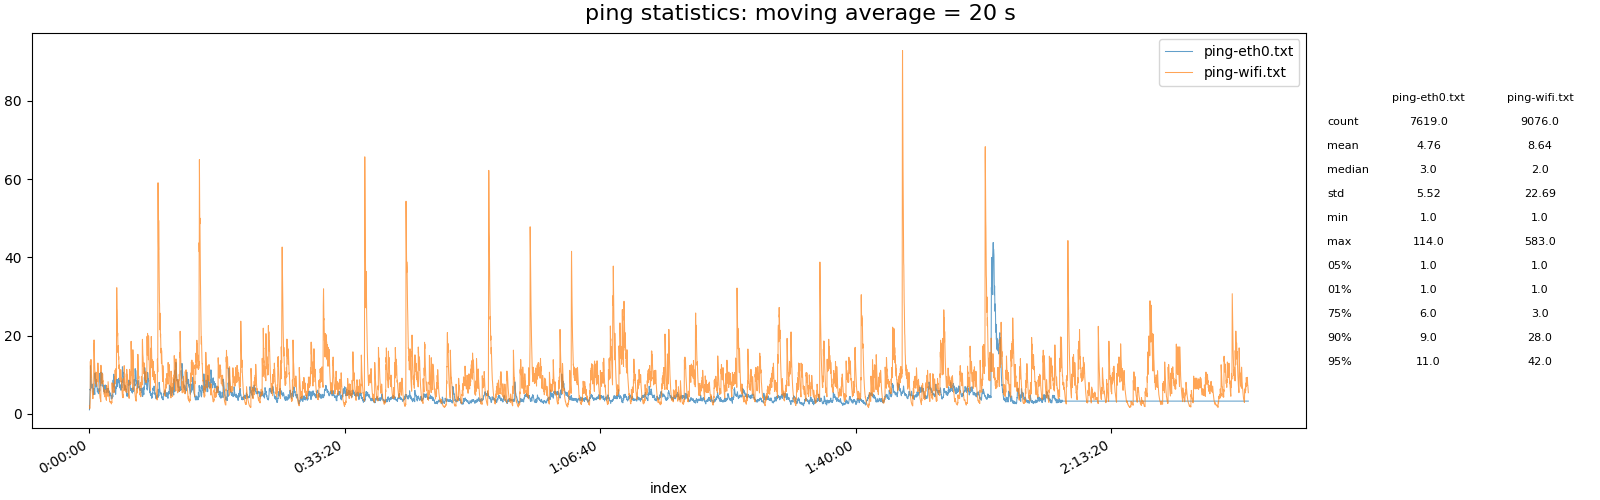
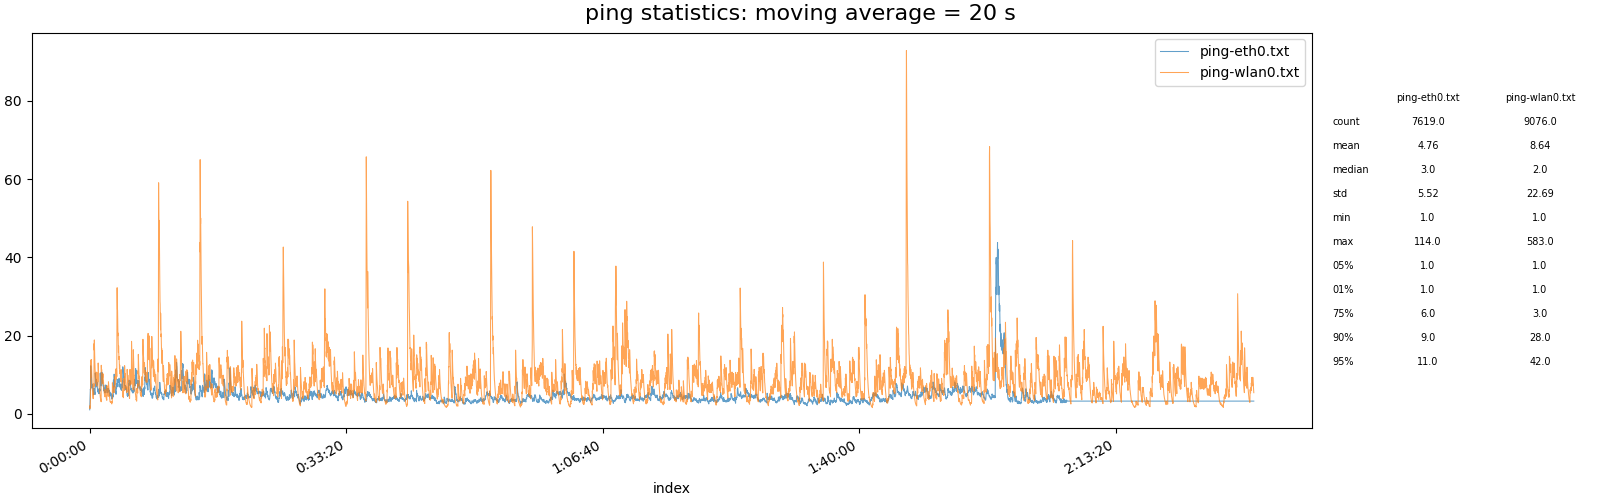
readme, regenerated graps

diff --git a/ping-analysis.py b/ping-analysis.py
@@ -146,7 +146,6 @@ def plot_multi(latencies: pd.DataFrame, ewm_window: int = 20) -> plt:
         latencies[col].ewm(span = 5).mean().plot(
             ax = axes[i, 0], 
             alpha = 0.7, 
-            label = "10s average",
             linewidth = 0.75
         )
         

diff --git a/README.md b/README.md
@@ -21,12 +21,12 @@ A simple script to analyze and display ping statistics from one or more ping tra
 # Ping Transcipt in PowerShell
     Start-Transcript -path .\ping-log.txt -Append; ping -t <host> | % {"{0} - {1}" -f (Get-Date),$_}
 
-- add `-S <ip>` to use via a specific interface in windows
-- Exit the ping with `<Ctrl-C>`#
+- add `-S <ip>` to use a specific interface in windows
+- Exit the ping with `<Ctrl-C>`
 - Stop the transcript with `Stop-Transcript` or close the powershell window
 
 # Example
-    python .\example\ping-analysis.py .\example\ping-eth0.txt .\ping-wifi.txt -p both -o .\example\single.png .\example\mult.png
+    python .\ping-analysis.py .\example\ping-eth0.txt .\example\ping-wlan0.txt -p both -o .\example\single.png .\example\mult.png
 
 ![Single Graph](/example/single.png "Single Graph")
 
